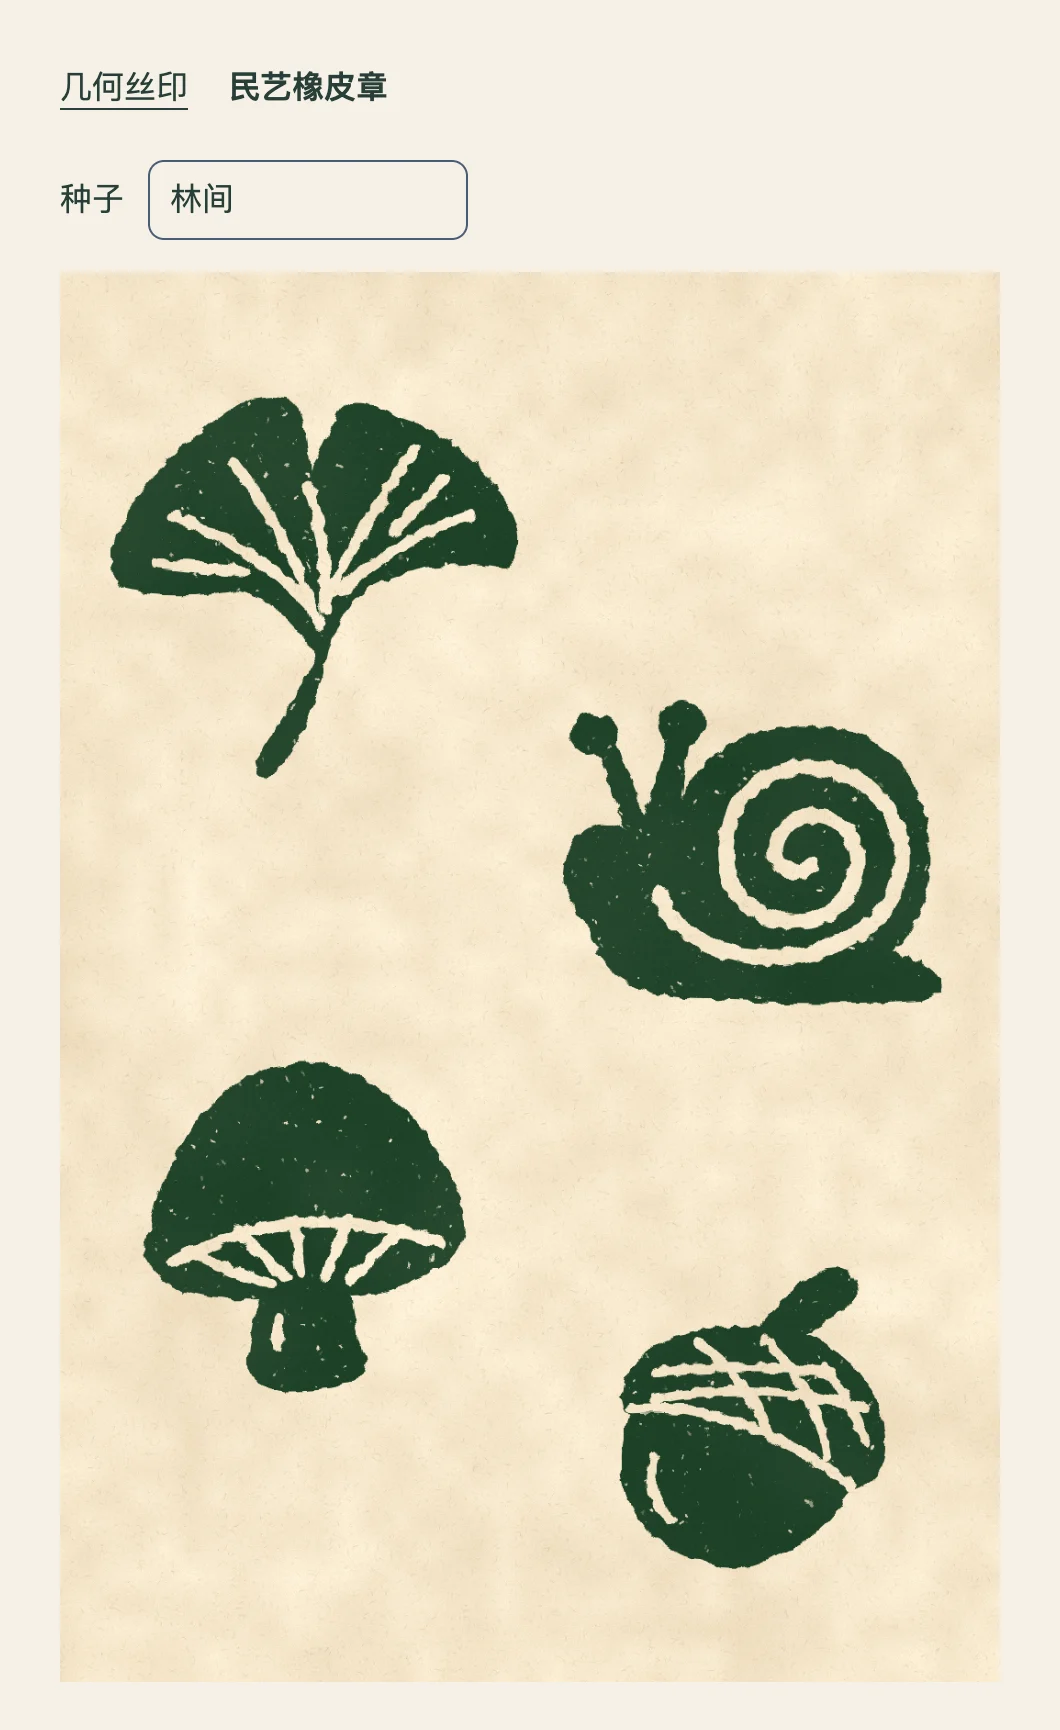
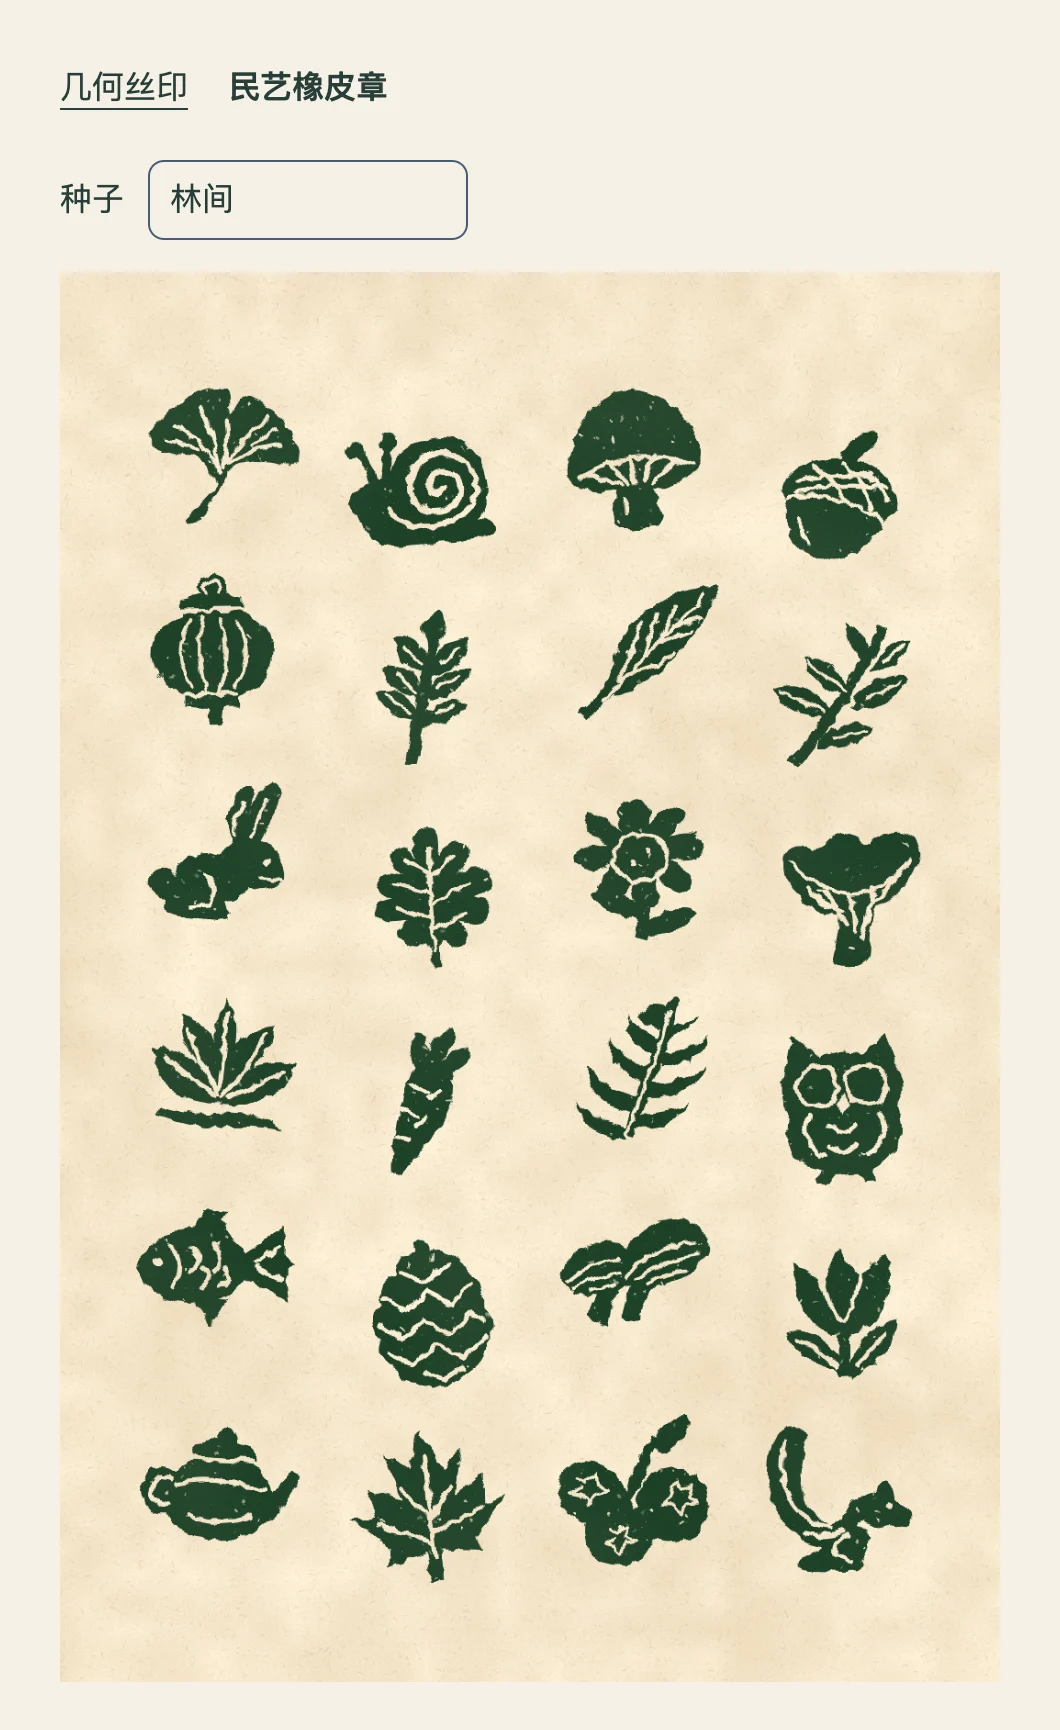
Lay out 24 rubber stamps in staggered columns

diff --git a/src/stamp.js b/src/stamp.js
@@ -8,12 +8,9 @@
   const defaults = Object.freeze({ seed: '林间' });
   const paperColor = [246, 231, 203];
   const inkColor = [24, 61, 35];
-  const positions = [
-    { x: 274, y: 318, size: 480, angle: -0.11 },
-    { x: 750, y: 613, size: 452, angle: 0.02 },
-    { x: 260, y: 1012, size: 438, angle: -0.04 },
-    { x: 755, y: 1220, size: 414, angle: 0.24 },
-  ];
+  const rows = 6;
+  const columnOffsets = [-18, 20, -14, 17];
+  const columns = columnOffsets.length;
   const surfaceCache = new WeakMap();
   const pathCache = new WeakMap();
 
@@ -37,25 +34,24 @@
 
   function createStampLayout(seed) {
     seed = normalizeSeed(seed);
-    if (seed === defaults.seed) {
-      return positions.map((position, index) => ({ ...position, motif: motifs[index] }));
-    }
-
     const random = randomFrom(seed + '|layout');
     // A motif ID pins the first stamp so every design can be found directly.
-    const first = motifs.find(motif => motif.id === seed);
-    const pool = motifs.filter(motif => motif !== first);
-    const chosen = first ? [first] : [];
-    while (chosen.length < positions.length) {
+    const chosen = seed === defaults.seed ? motifs.slice(0, 4) : motifs.filter(motif => motif.id === seed);
+    const pool = motifs.filter(motif => !chosen.includes(motif));
+    while (chosen.length < rows * columns) {
       chosen.push(pool.splice(Math.floor(random() * pool.length), 1)[0]);
     }
-    return positions.map((position, index) => ({
-      motif: chosen[index],
-      x: position.x + (random() - 0.5) * 30,
-      y: position.y + (random() - 0.5) * 56,
-      size: position.size * (0.93 + random() * 0.13),
-      angle: position.angle + (random() - 0.5) * 0.28,
-    }));
+    return chosen.map((motif, index) => {
+      const column = index % columns;
+      const row = Math.floor(index / columns);
+      return {
+        motif,
+        x: 169 + 229 * column + (random() - 0.5) * 18,
+        y: 206 + 225 * row + columnOffsets[column] + (random() - 0.5) * 20,
+        size: 164 + random() * 22,
+        angle: (random() - 0.5) * 0.32,
+      };
+    });
   }
 
   function noiseField(random, columns, rows) {

diff --git a/stamps.html b/stamps.html
@@ -20,7 +20,7 @@
     <label for="poster-seed">种子</label>
     <input id="poster-seed" type="text" maxlength="48" autocomplete="off" spellcheck="false">
   </div>
-  <canvas data-poster width="1024" height="1536" role="img" aria-label="暖米白纸上的四枚深墨绿色手刻印章"></canvas>
+  <canvas data-poster width="1024" height="1536" role="img" aria-label="暖米白纸上交错排成六行四列的深墨绿色手刻印章"></canvas>
   <span class="sr-only" data-status aria-live="polite"></span>
 </main>
 </body>

diff --git a/README.md b/README.md
@@ -4,10 +4,10 @@
 
 Niltavi Banner is a seeded artwork generator for Niltavi projects. It runs offline in a modern browser.
 
-Open [Geometric Screenprint](index.html) for a four-color poster of 24 geometric motifs. Open [Folk Rubber Stamps](stamps.html) for four staggered dark-green impressions on textured paper. The default stamp seed `林间` prints a ginkgo leaf, a snail, a mushroom, and an acorn. Enter an ID from the [50-motif catalog](docs/stamp-motifs.md) to place that motif first.
+Open [Geometric Screenprint](index.html) for a four-color poster of 24 geometric motifs. Open [Folk Rubber Stamps](stamps.html) for 24 dark-green impressions in six rows and four vertically staggered columns. The default stamp seed `林间` begins with a ginkgo leaf, a snail, a mushroom, and an acorn. Enter an ID from the [50-motif catalog](docs/stamp-motifs.md) to place that motif first.
 
 <img src="docs/assets/generator-preview.png" width="360" alt="Geometric screenprint preview with seed 2564 and a four-column, six-row poster" />
-<img src="docs/assets/stamp-preview.webp" width="360" alt="Folk rubber stamp preview with a ginkgo leaf, snail, mushroom and acorn printed in dark green on warm paper" />
+<img src="docs/assets/stamp-preview.webp" width="360" alt="Folk rubber stamp preview with six rows and four staggered columns of dark-green stamps" />
 
 See the [integration guide](docs/en/for-agents.md) to use either renderer from code or run the checks.
 

diff --git a/docs/README.zh-CN.md b/docs/README.zh-CN.md
@@ -4,10 +4,10 @@
 
 Niltavi Banner 用种子生成插画，可以在现代浏览器中离线运行。
 
-打开[几何丝印](../index.html)，生成 24 格四色几何海报。打开[民艺橡皮章](../stamps.html)，生成暖米白纸上错落排开的四枚深墨绿印章。默认种子「林间」对应银杏叶、蜗牛、蘑菇和橡果。输入 [50 种图案](stamp-motifs.md)中的任意编号，可把该图案放在第一枚。
+打开[几何丝印](../index.html)，生成 24 格四色几何海报。打开[民艺橡皮章](../stamps.html)，生成六行四列的 24 枚深墨绿印章，相邻列在竖向略微错开。默认种子「林间」的首行是银杏叶、蜗牛、蘑菇和橡果。输入 [50 种图案](stamp-motifs.md)中的任意编号，可把该图案放在第一枚。
 
 <img src="assets/generator-preview.png" width="360" alt="几何丝印预览，种子 2564 和四列六行几何图案海报" />
-<img src="assets/stamp-preview.webp" width="360" alt="民艺橡皮章预览，暖米白纸上印有深墨绿的银杏叶、蜗牛、蘑菇和橡果" />
+<img src="assets/stamp-preview.webp" width="360" alt="民艺橡皮章预览，深墨绿印章错落排成六行四列" />
 
 在其他项目中调用生成器或运行测试，可查阅[集成指南](en/for-agents.md)。
 

diff --git a/docs/en/for-agents.md b/docs/en/for-agents.md
@@ -26,7 +26,7 @@ drawPoster(canvas.getContext('2d', { willReadFrequently: true }), {
 
 Load [`src/stamp-motifs.js`](../../src/stamp-motifs.js) followed by [`src/stamp.js`](../../src/stamp.js) as classic browser scripts. Call `NiltaviStamp.drawPoster(context, { seed })` with a positive 2:3 canvas. Use `canvas.toBlob(callback, 'image/png')` for PNG export. The renderer uses `OffscreenCanvas` to build the paper and cut the ink mask.
 
-`NiltaviStamp.motifs` is the catalog, and `NiltaviStamp.createStampLayout(seed)` returns a sheet with four motifs in stamp order. Node can use both via `require('./src/stamp.js')`. Seed `林间` is the default. A [catalog ID](../stamp-motifs.md) pins the matching motif in the first position, and a free-form seed varies the whole sheet.
+`NiltaviStamp.motifs` is the catalog, and `NiltaviStamp.createStampLayout(seed)` returns 24 motifs in row order across six rows and four vertically staggered columns. Node can use both via `require('./src/stamp.js')`. Seed `林间` is the default. A [catalog ID](../stamp-motifs.md) pins the matching motif in the first position, and a free-form seed varies the whole sheet.
 
 ## Verify
 

diff --git a/docs/stamp-motifs.md b/docs/stamp-motifs.md
@@ -1,6 +1,6 @@
 # 民艺橡皮章图案
 
-在[民艺橡皮章](../stamps.html)中输入下列表格里的种子，对应图案会出现在左上方。其余三枚由种子决定。
+在[民艺橡皮章](../stamps.html)中输入表格里的种子，对应图案会出现在左上方。其余 23 枚由种子决定。
 
 | 图案 | 种子 | 图案 | 种子 |
 | --- | --- | --- | --- |
